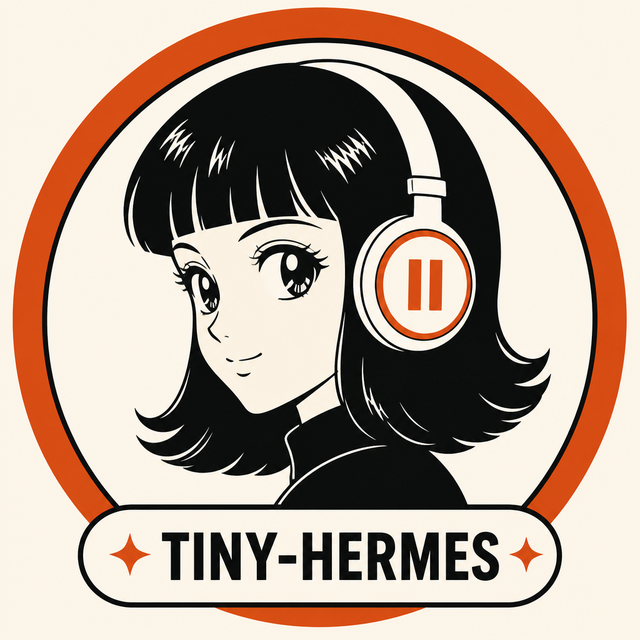
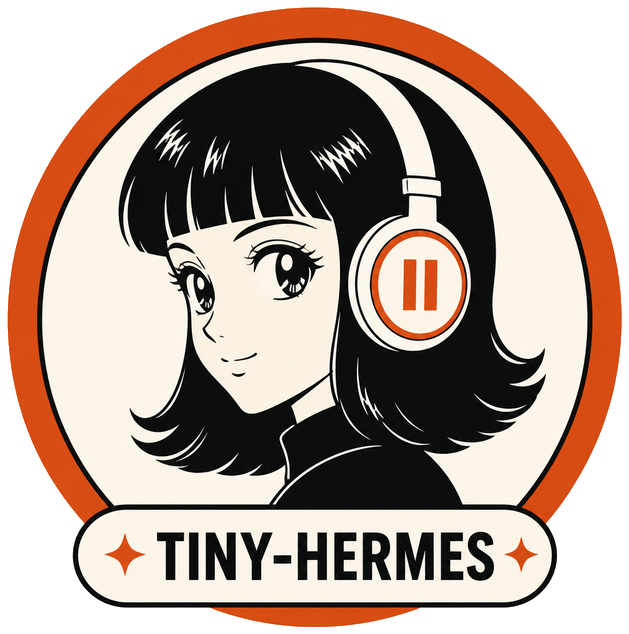
feat(web): sit the badge on the paper, not a square tile
Knock the field out of the lockup and clip the silent mark to
a circle so the corners never print as a rectangle.

diff --git a/apps/web/src/ui/HermesMark.tsx b/apps/web/src/ui/HermesMark.tsx
@@ -7,20 +7,23 @@ const LOCKUP = "/tiny-hermes-lockup.png";
 const ICON = "/tiny-hermes-icon.png";
 
 /**
- * Two artworks the operator sent:
- * - lockup: the named badge (✦ TINY-HERMES ✦) for login and empty
- * - icon: the same listener without the word, for the sider and tab
+ * The two artworks sit as a badge, not a square tile.
+ *
+ * The mark is clipped to a circle. The named lockup keeps the
+ * pill under the ring; only the field around the badge is gone.
  */
 export function HermesMark({ size = 28, variant = "mark" }: HermesMarkProps) {
   const lockup = variant !== "mark";
   return (
-    <img
-      className={`th-hermes th-hermes-${variant}`}
-      src={lockup ? LOCKUP : ICON}
-      width={size}
-      height={size}
-      alt={variant === "hero" ? "TINY-HERMES" : ""}
-      draggable={false}
-    />
+    <span className={`th-hermes-wrap th-hermes-wrap-${variant}`} style={{ width: size }}>
+      <img
+        className={`th-hermes th-hermes-${variant}`}
+        src={lockup ? LOCKUP : ICON}
+        width={size}
+        height={size}
+        alt={variant === "hero" ? "TINY-HERMES" : ""}
+        draggable={false}
+      />
+    </span>
   );
 }

diff --git a/apps/web/src/ui/HermesMark.test.tsx b/apps/web/src/ui/HermesMark.test.tsx
@@ -5,6 +5,7 @@ import { HermesMark } from "./HermesMark";
 
 test("the mark is the circular artwork without the word", () => {
   const { container } = render(<HermesMark />);
+  expect(container.querySelector(".th-hermes-wrap-mark")).not.toBeNull();
   const img = container.querySelector("img.th-hermes-mark");
   expect(img).not.toBeNull();
   expect(img).toHaveAttribute("src", "/tiny-hermes-icon.png");
@@ -13,6 +14,8 @@ test("the mark is the circular artwork without the word", () => {
 
 test("the hero and empty states use the named lockup", () => {
   const hero = render(<HermesMark variant="hero" />);
+  expect(hero.container.querySelector(".th-hermes-wrap-hero")).not.toBeNull();
+  expect(hero.container.querySelector(".th-hermes-wrap-mark")).toBeNull();
   const heroImg = hero.container.querySelector("img.th-hermes-hero");
   expect(heroImg).toHaveAttribute("src", "/tiny-hermes-lockup.png");
   expect(hero.getByAltText("TINY-HERMES")).toBeInTheDocument();

diff --git a/apps/web/src/styles.css b/apps/web/src/styles.css
@@ -59,7 +59,7 @@ h4,
   border-right: 1px solid var(--th-line);
 }
 
-.brand-panel .th-hermes {
+.brand-panel .th-hermes-wrap {
   margin-bottom: 20px;
 }
 
@@ -109,11 +109,22 @@ h4,
   text-decoration: none;
 }
 
-.th-hermes {
+.th-hermes-wrap {
   display: block;
   flex: none;
+  line-height: 0;
+}
+
+.th-hermes-wrap-mark {
+  border-radius: 50%;
+  overflow: hidden;
+}
+
+.th-hermes {
+  display: block;
+  width: 100%;
   height: auto;
-  object-fit: contain;
+  background: transparent;
 }
 
 .th-word {
@@ -291,7 +302,7 @@ h4,
   text-align: center;
 }
 
-.th-empty .th-hermes {
+.th-empty .th-hermes-wrap {
   margin-bottom: 2px;
 }
 
